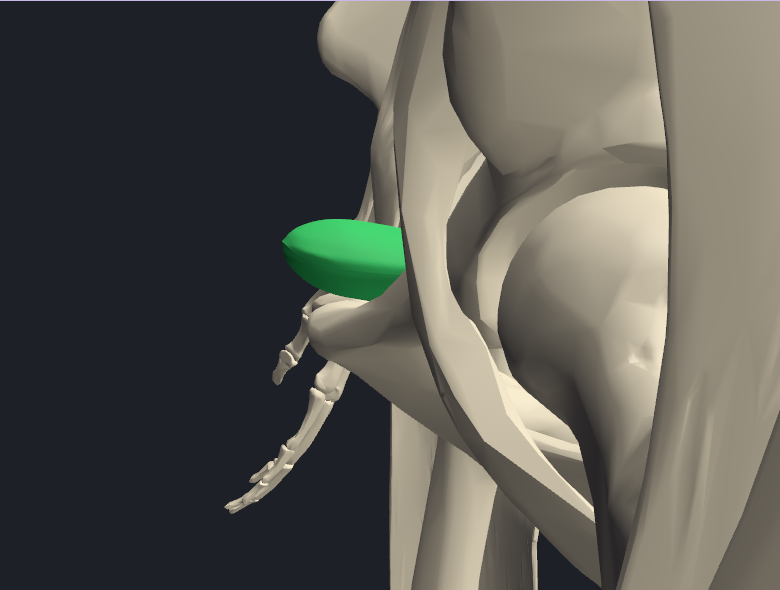
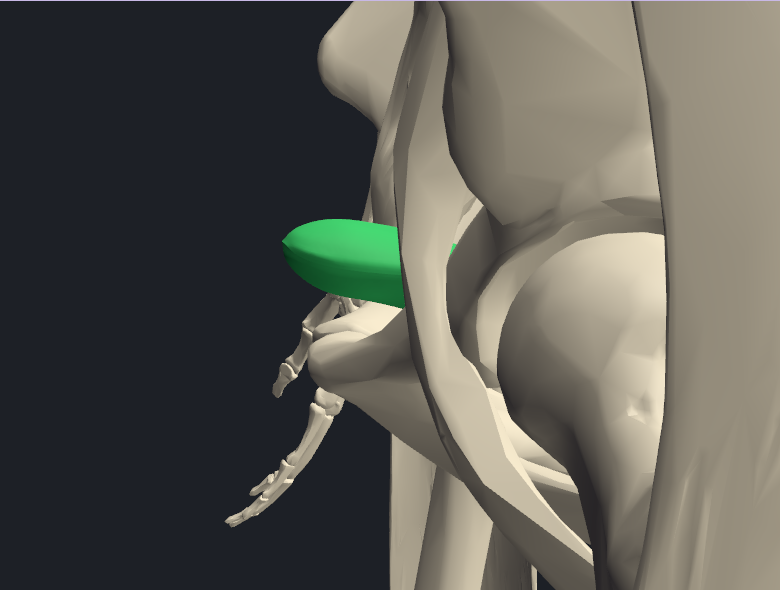
Register the female bladder 8 mm higher (offset region)
After the pelvic fit the HRA bladder crossed the BodyParts3D pubic
symphysis (550 vertices in front of or inside the pubis). Moving it back
would push it into the uterus; a grid search picked a fixed 8 mm upward
shift: no bone contact, 3 vertices left in front of the pubis, none in
the abdominal wall, uterus still resting on it. Registration gains an
'offset' region type (another region followed by a fixed shift).

diff --git a/tools/hra/src/register.ts b/tools/hra/src/register.ts
@@ -118,8 +118,9 @@ export function fitTranslation(src: Vec3[], dst: Vec3[], base: Mat4): Fit {
 
 export interface Landmark { name: string; hra: Vec3; bp3d: Vec3 }
 export interface RegionConfig {
-  fit: 'similarity' | 'translation';
-  /** for fit: translation, the region whose transform comes first */
+  /** similarity: fitted on landmarks; translation: another region then the mean landmark offset; offset: another region then `adjust` only */
+  fit: 'similarity' | 'translation' | 'offset';
+  /** for fit: translation | offset, the region whose transform comes first */
   from?: string;
   organs: string[];
   /** landmark coordinates: hra already in the BodyParts3D axes and millimetres (after HRA_TO_BP3D) */
@@ -138,8 +139,18 @@ export function computeRegions(config: Record<string, RegionConfig>, maxRmsMm: n
     const r = config[name];
     if (!r) throw new Error(`recalage : région « ${name} » inconnue`);
     const src = r.landmarks.map((l) => l.hra), dst = r.landmarks.map((l) => l.bp3d);
-    let fit = r.fit === 'similarity' ? fitSimilarity(src, dst) : fitTranslation(src, dst, solve(r.from!, [...seen, name]).matrix);
-    if (r.adjust && r.adjust.some((v) => v !== 0)) fit = { ...fit, matrix: compose(translation(r.adjust), fit.matrix), ...residuals(compose(translation(r.adjust), fit.matrix), src, dst) };
+    let fit: Fit;
+    if (r.fit === 'similarity') fit = fitSimilarity(src, dst);
+    else if (r.fit === 'translation') fit = fitTranslation(src, dst, solve(r.from!, [...seen, name]).matrix);
+    else {
+      // offset: no landmarks of its own; residuals are those of the region it derives from
+      const base = solve(r.from!, [...seen, name]);
+      fit = { ...base, matrix: base.matrix, residualsMm: [], rmsMm: 0, maxMm: 0 };
+    }
+    if (r.adjust && r.adjust.some((v) => v !== 0)) {
+      const matrix = compose(translation(r.adjust), fit.matrix);
+      fit = { ...fit, matrix, ...(src.length ? residuals(matrix, src, dst) : {}) };
+    }
     return (out[name] = { ...fit, ok: fit.rmsMm <= maxRmsMm });
   };
   for (const name of Object.keys(config)) solve(name);

diff --git a/tools/hra/src/register-file.ts b/tools/hra/src/register-file.ts
@@ -16,7 +16,10 @@ export function registerFile(path: string): { ok: boolean; summary: string[] } {
       scale: round(r.scale, 5), rotationDeg: round(r.rotationDeg, 2), rmsMm: round(r.rmsMm, 1), maxMm: round(r.maxMm, 1),
       matrix: r.matrix.map((v) => round(v, 6)),
     }, { flow: false }));
-    summary.push(`${name.padEnd(10)} échelle ${r.scale.toFixed(3)} · rotation ${r.rotationDeg.toFixed(1)}° · écart RMS ${r.rmsMm.toFixed(1)} mm (max ${r.maxMm.toFixed(1)})${r.ok ? '' : `  ✗ au-delà de ${max} mm`}`);
+    const c = conf.regions[name];
+    summary.push(c.fit === 'offset'
+      ? `${name.padEnd(10)} région ${c.from} + décalage [${(c.adjust ?? [0, 0, 0]).join(', ')}] mm (pas de repères propres)`
+      : `${name.padEnd(10)} échelle ${r.scale.toFixed(3)} · rotation ${r.rotationDeg.toFixed(1)}° · écart RMS ${r.rmsMm.toFixed(1)} mm (max ${r.maxMm.toFixed(1)})${r.ok ? '' : `  ✗ au-delà de ${max} mm`}`);
   }
   // keep each matrix on one line for readability
   doc.toString();

diff --git a/tools/hra/test/register.test.ts b/tools/hra/test/register.test.ts
@@ -83,3 +83,14 @@ test('registerFile writes each region result back into the YAML, keeping comment
   assert.ok(Math.abs(res.scale - 0.9) < 1e-3);
   assert.ok(res.rmsMm < 0.01);
 });
+
+test('computeRegions: an offset region is another region followed by a fixed shift, without landmarks', () => {
+  const lm = (name: string, hra: Vec3) => ({ name, hra, bp3d: knownTransform(hra) });
+  const regions = computeRegions({
+    pelvic: { fit: 'similarity', organs: ['uterus-female'], landmarks: pts.map((p, i) => lm(`p${i}`, p)) },
+    bladder: { fit: 'offset', from: 'pelvic', organs: ['urinary-bladder-female'], landmarks: [], adjust: [0, 0, 8] },
+  }, 25);
+  close(apply(regions.bladder.matrix, [1, 2, 3]), (() => { const q = knownTransform([1, 2, 3]); return [q[0], q[1], q[2] + 8]; })());
+  assert.equal(regions.bladder.ok, true);
+  assert.equal(regions.bladder.rmsMm, 0);
+});

diff --git a/tasks/specs/2026-11-09-modele-feminin-v1.decisions.md b/tasks/specs/2026-11-09-modele-feminin-v1.decisions.md
@@ -83,3 +83,16 @@ Décisions prises là où la spec `2026-11-09-modele-feminin-v1.md` est muette, 
 - Empreinte de l'extrait dépendante de la version de glTF-Transform.
 - `rotationDeg: 0` pour une région `fit: translation`.
 - Découpage de `buildAssets` et d'`importHra` en fonctions plus petites.
+
+## Recalage de la vessie (2026-11-09)
+
+- **Le défaut était plus important que l'écart de 6 mm mesuré sur les boîtes englobantes.** Après le recalage pelvien, la vessie HRA traversait la symphyse pubienne : 550 sommets devant le pubis ou dedans, contact avec l'os.
+- **On ne peut pas la reculer.** L'utérus n'est qu'à 4,5 mm en arrière ; un recul de 4 mm le fait entrer dans la vessie.
+- **Nouvelle région `bladder` (`fit: offset`).** C'est la région pelvienne suivie d'un décalage fixe de 8 mm vers le haut, sans repères propres. Ce décalage a été choisi par une recherche sur grille (décalages de −2 à +12 mm en Y et en Z), en comptant les sommets devant ou dans le pubis et les contacts à moins de 2 mm avec l'os et l'utérus.
+- **Résultat :**
+  - plus aucun contact avec l'os ;
+  - 3 sommets devant le pubis, contre 550 ;
+  - aucun sommet dans la paroi abdominale (ligne blanche, oblique externe) ;
+  - contact avec l'utérus conservé : anatomiquement, l'utérus repose sur la vessie.
+- **Le point le plus antérieur de la vessie (y = −145 mm) est au-dessus de la symphyse** (sommet à z = 806 mm), derrière la paroi abdominale : c'est la position du dôme vésical. La vue latérale rapprochée de `spikes/05-female/` le fait paraître devant le pubis, parce que les muscles de la paroi sont masqués dans la capture.
+- **Contrat de `register`.** Le mode `offset` est ajouté à `computeRegions` (test : une région décalée égale la région source suivie du décalage). Le résumé de `register` indique le décalage plutôt qu'un écart RMS nul trompeur.
